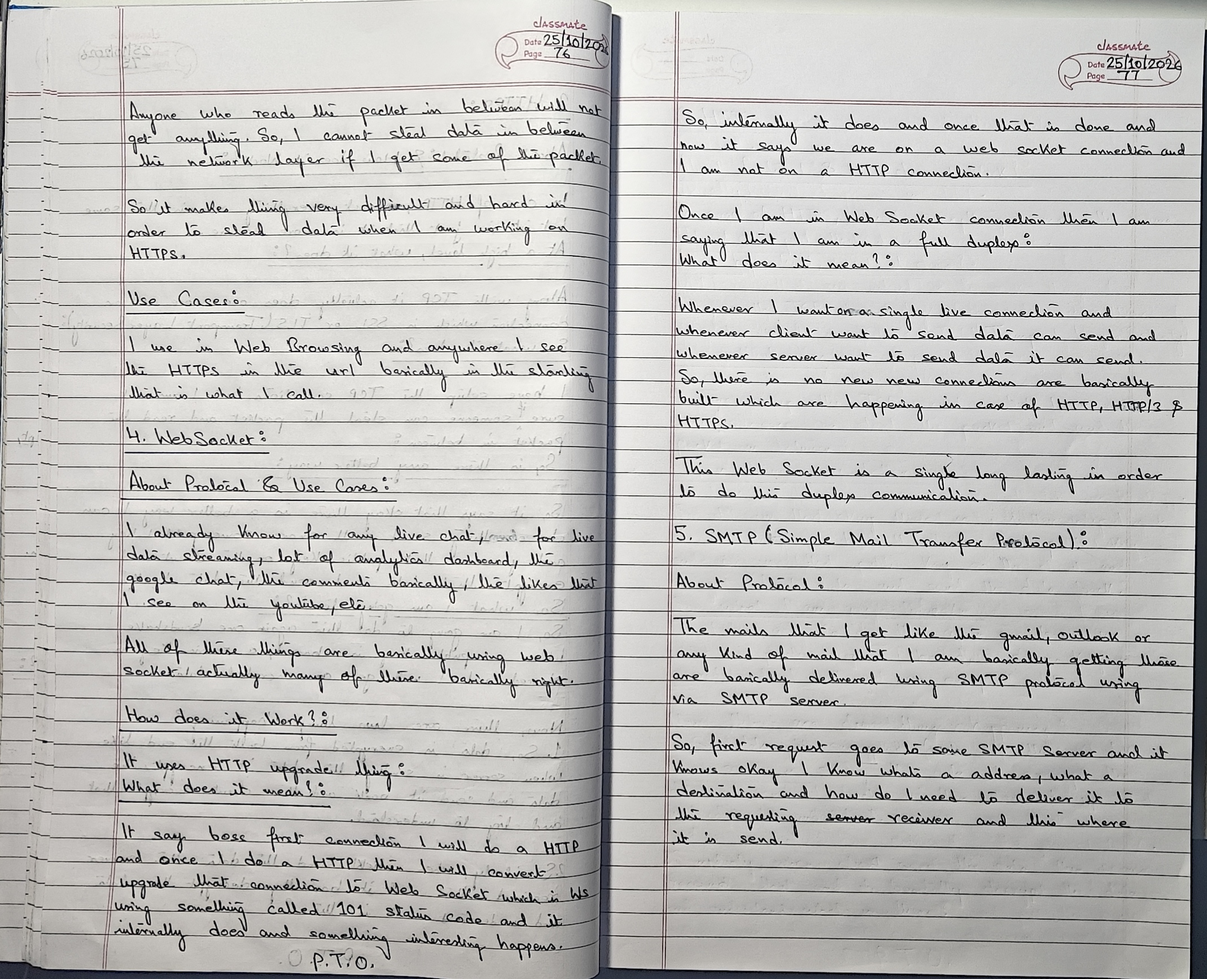
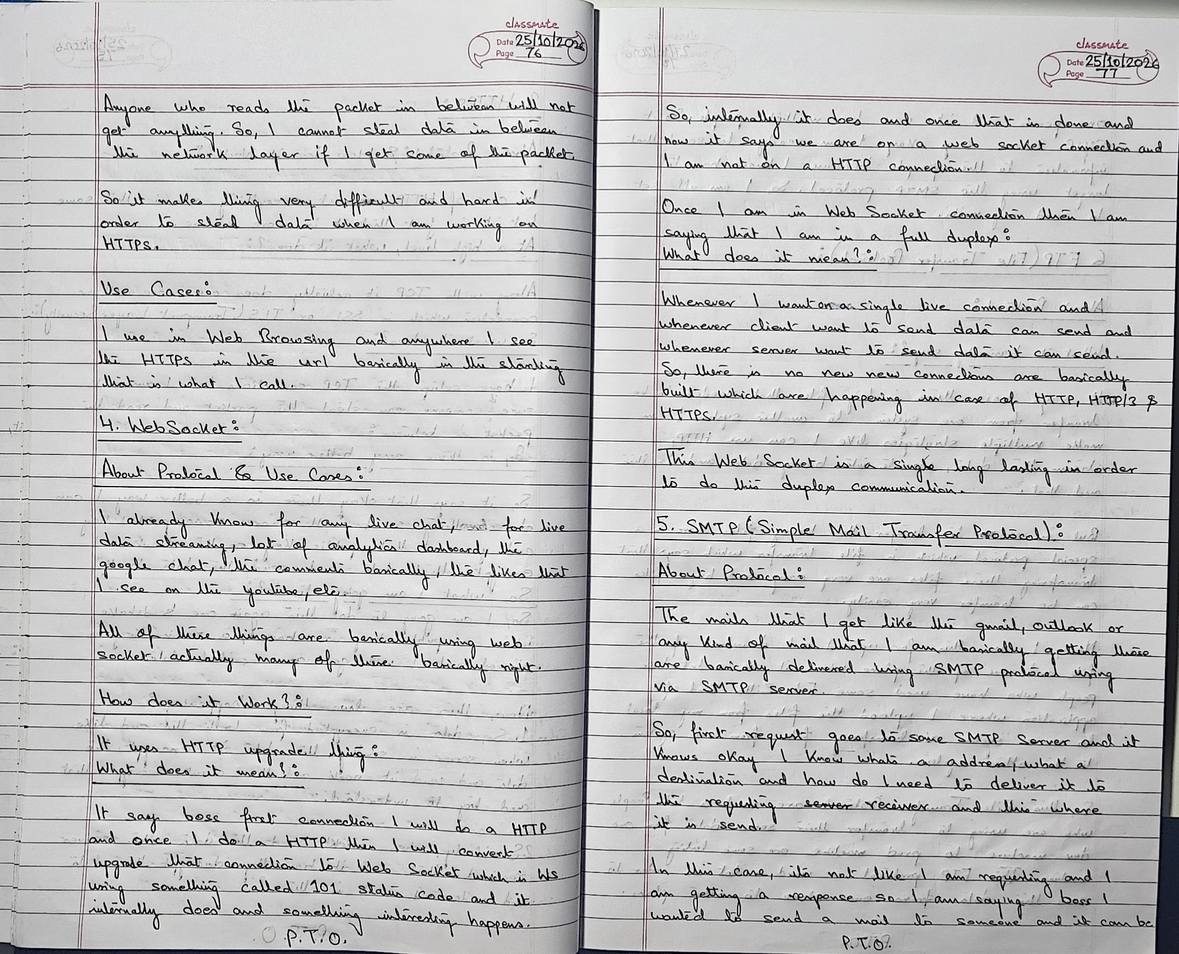
Refresh notes scans and add TLS acronym
Update the volume 1 notes images and add TLS to the README acronym list.

Changed region(s): [[0.0, 0.0, 1.0, 1.0]]

diff --git a/README.md b/README.md
@@ -28,8 +28,9 @@
 8. ACK: Acknowledgement.
 9. TCP: Transmission Central Protocol.
 10. SSL: Secure Sockets Layer.
-11. CSSOM: Cascading Style Sheets Object Model.
-12. HTTP: Hyper Text Transfer Protocol.
-13. QUIC: Quick UDP(User Datagram Protocol) Internet Connection.
-14. SMTP: Simple Mail Transfer Protocol.
-15. FTP: File Transfer Protocol.
+11. TLS: Transport Layer Security.
+12. CSSOM: Cascading Style Sheets Object Model.
+13. HTTP: Hyper Text Transfer Protocol.
+14. QUIC: Quick UDP(User Datagram Protocol) Internet Connection.
+15. SMTP: Simple Mail Transfer Protocol.
+16. FTP: File Transfer Protocol.
